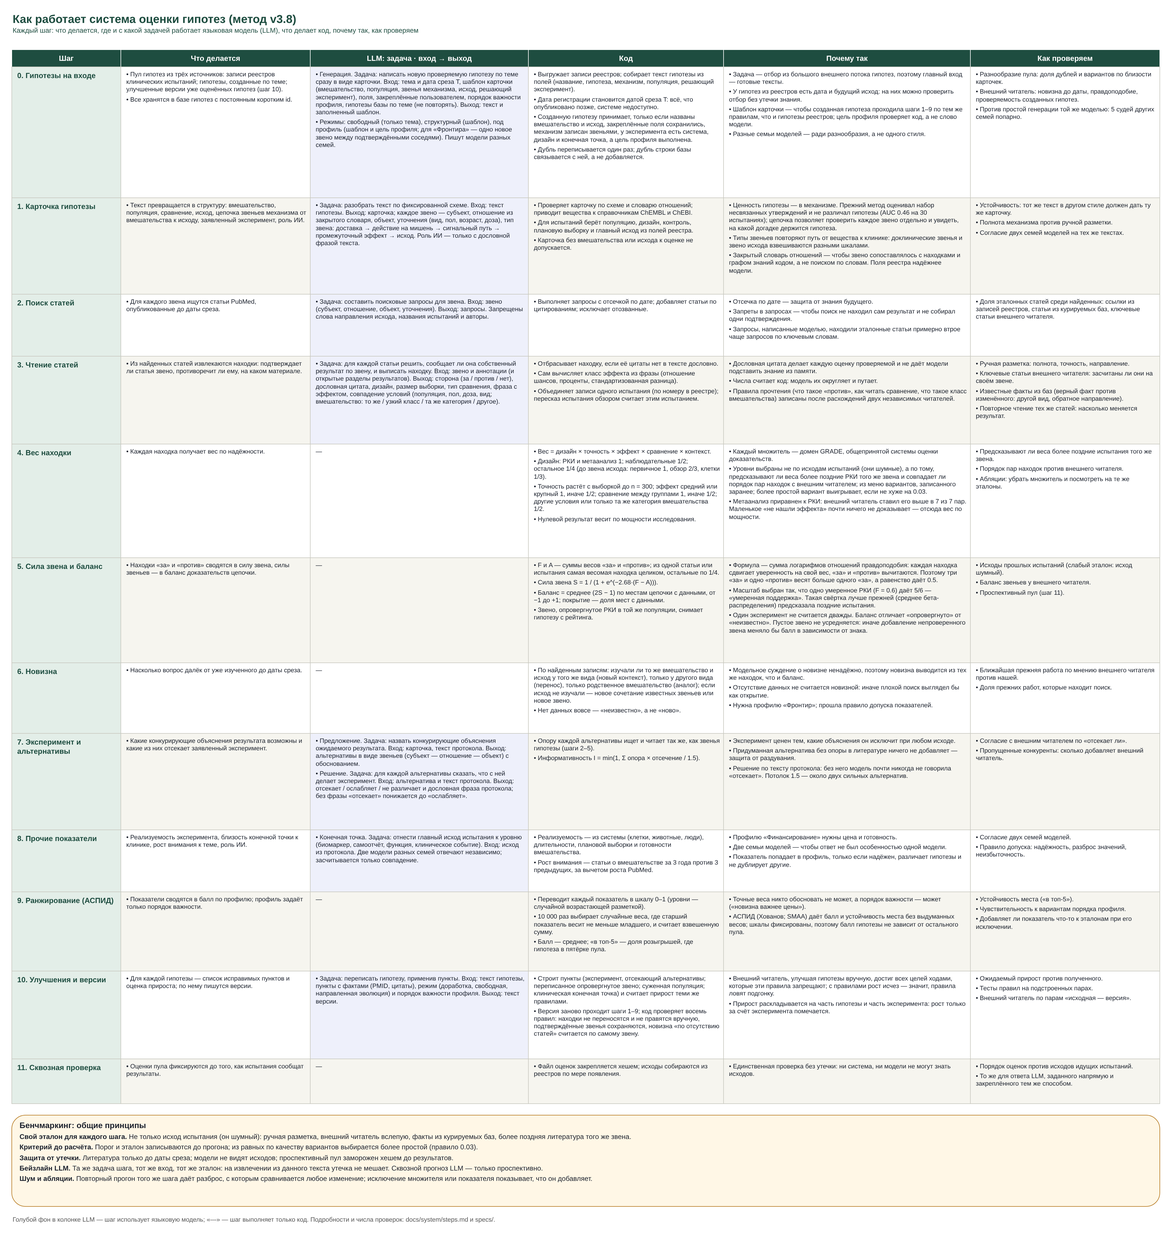
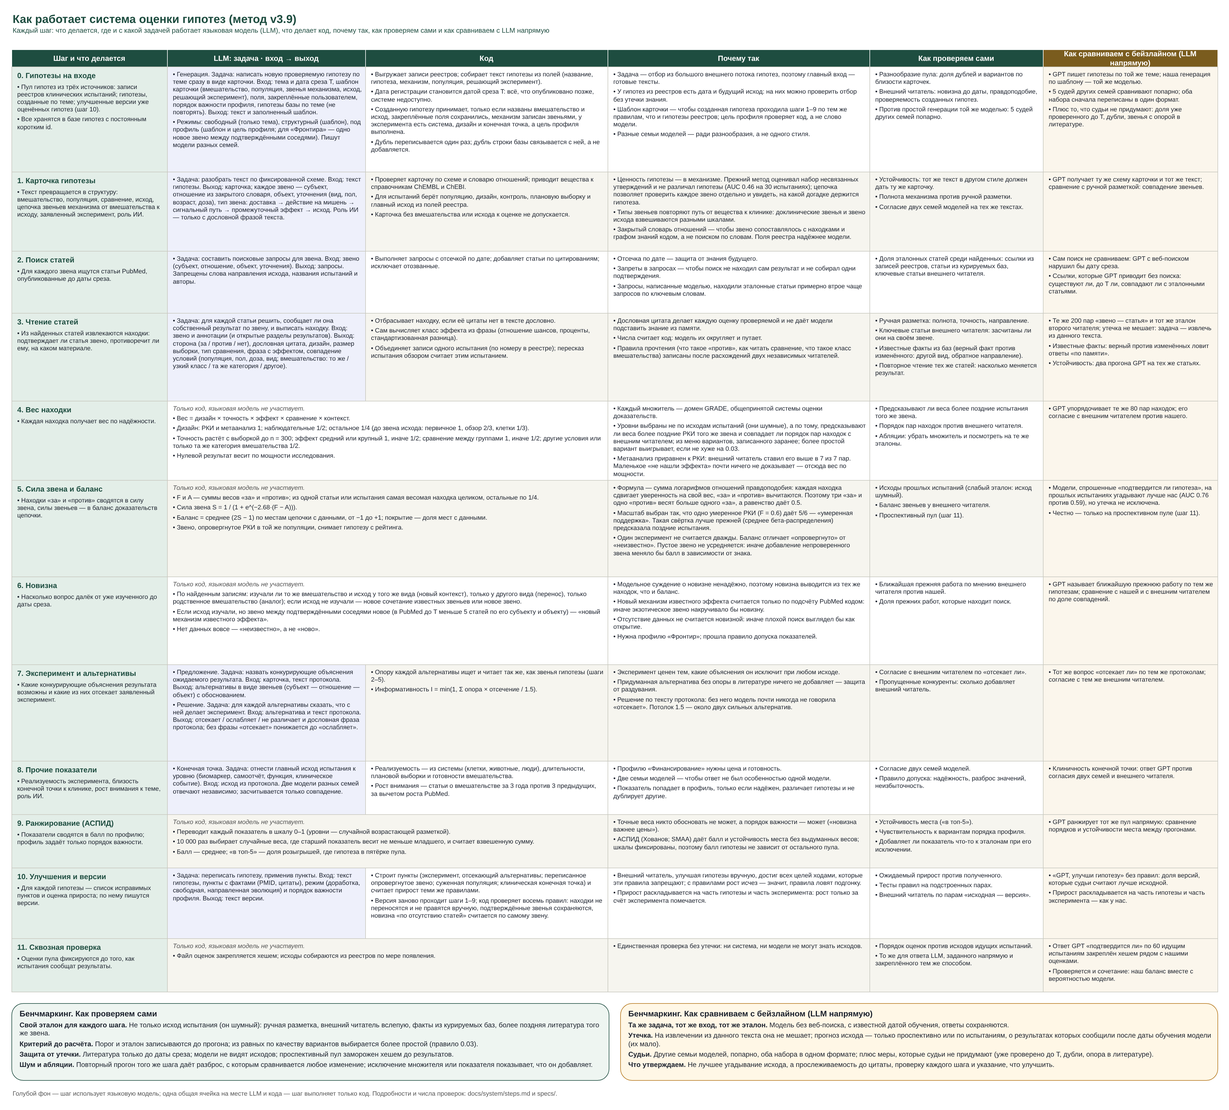
System scheme: step and what is done in one column; code-only steps get one merged cell; checks split into our own and against a plain-LLM baseline (per step and at the bottom); widths follow the amount of text; v3.9 novelty level in step 6
Claude-Session: https://claude.ai/code/session_015QaY8wcM8f6FoFe6WxnTtU

diff --git a/docs/system/build_scheme.py b/docs/system/build_scheme.py
@@ -1,13 +1,17 @@
-"""Builds docs/system/scheme.drawio: the whole system on one page (method v3.9). Each step: what is done, what a language model
-does (task, input -> output), what code does, why it is so, how it is checked; at the bottom the ideas of benchmarking.
-The text lives in STEPS and BENCH below; edit there and run:  python docs/system/build_scheme.py"""
+"""Builds docs/system/scheme.drawio: the whole system on one page (method v3.9). Each step: the step with what is done, what a
+language model does (task, input -> output; for code-only steps one merged cell with the code), what code does, why it is so,
+how we check it ourselves, and how it can be checked against a plain-LLM baseline; at the bottom benchmarking in two parts
+(our own checks; the baseline). Column widths follow the amount of text, so rows are even (user note 2026-11-11).
+The text lives in STEPS, BASELINE and BENCH below; edit there and run:  python docs/system/build_scheme.py"""
 from math import ceil
 from pathlib import Path
 from xml.sax.saxutils import escape
 
 D = Path(__file__).resolve().parent
-COLS = [("Шаг", 190), ("Что делается", 330), ("LLM: задача · вход → выход", 380), ("Код", 340), ("Почему так", 430),
-        ("Как проверяем", 330)]
+TOTAL = 2100
+HEAD = ["Шаг и что делается", "LLM: задача · вход → выход", "Код", "Почему так", "Как проверяем сами",
+        "Как сравниваем с бейзлайном (LLM напрямую)"]
+MIN_W = 230
 
 # step: (title, what[], llm[] (empty: no model), code[], why[], check[])
 STEPS = [
@@ -90,8 +94,10 @@ STEPS = [
      ["Насколько вопрос далёк от уже изученного до даты среза."],
      [],
      ["По найденным записям: изучали ли то же вмешательство и исход у того же вида (новый контекст), только у другого вида (перенос), только родственное вмешательство (аналог); если исход не изучали — новое сочетание известных звеньев или новое звено.",
+      "Если исход изучали, но звено между подтверждёнными соседями новое (в PubMed до T меньше 5 статей по его субъекту и объекту) — «новый механизм известного эффекта».",
       "Нет данных вовсе — «неизвестно», а не «ново»."],
      ["Модельное суждение о новизне ненадёжно, поэтому новизна выводится из тех же находок, что и баланс.",
+      "Новый механизм известного эффекта считается только по подсчёту PubMed кодом: иначе экзотическое звено накручивало бы новизну.",
       "Отсутствие данных не считается новизной: иначе плохой поиск выглядел бы как открытие.",
       "Нужна профилю «Фронтир»; прошла правило допуска показателей."],
      ["Ближайшая прежняя работа по мнению внешнего читателя против нашей.",
@@ -147,12 +153,40 @@ STEPS = [
       "То же для ответа LLM, заданного напрямую и закреплённого тем же способом."]),
 ]
 
-BENCH = ("Бенчмаркинг: общие принципы", [
+BASELINE = [
+    ["GPT пишет гипотезы по той же теме; наша генерация по шаблону — той же моделью.",
+     "5 судей других семей сравнивают попарно; оба набора сначала переписаны в один формат.",
+     "Плюс то, что судьи не придумают: доля уже проверенного до T, дубли, звенья с опорой в литературе."],
+    ["GPT получает ту же схему карточки и тот же текст; сравнение с ручной разметкой: совпадение звеньев."],
+    ["Сам поиск не сравниваем: GPT с веб-поиском нарушил бы дату среза.",
+     "Ссылки, которые GPT приводит без поиска: существуют ли, до T ли, совпадают ли с эталонными статьями."],
+    ["Те же 200 пар «звено — статья» и тот же эталон второго читателя; утечка не мешает: задача — извлечь из данного текста.",
+     "Известные факты: верный против изменённых ловит ответы «по памяти».",
+     "Устойчивость: два прогона GPT на тех же статьях."],
+    ["GPT упорядочивает те же 80 пар находок; его согласие с внешним читателем против нашего."],
+    ["Модели, спрошенные «подтвердится ли гипотеза», на прошлых испытаниях угадывают лучше нас (AUC 0.76 против 0.59), но утечка не исключена.",
+     "Честно — только на проспективном пуле (шаг 11)."],
+    ["GPT называет ближайшую прежнюю работу по тем же гипотезам; сравнение с нашей и с внешним читателем по доле совпадений."],
+    ["Тот же вопрос «отсекает ли» по тем же протоколам; согласие с тем же внешним читателем."],
+    ["Клиничность конечной точки: ответ GPT против согласия двух семей и внешнего читателя."],
+    ["GPT ранжирует тот же пул напрямую: сравнение порядков и устойчивости места между прогонами."],
+    ["«GPT, улучши гипотезу» без правил: доля версий, которые судьи считают лучше исходной.",
+     "Прирост раскладывается на часть гипотезы и часть эксперимента — как у нас."],
+    ["Ответ GPT «подтвердится ли» по 60 идущим испытаниям закреплён хешем рядом с нашими оценками.",
+     "Проверяется и сочетание: наш баланс вместе с вероятностью модели."],
+]
+
+BENCH_SELF = ("Как проверяем сами", [
     "<b>Свой эталон для каждого шага.</b> Не только исход испытания (он шумный): ручная разметка, внешний читатель вслепую, факты из курируемых баз, более поздняя литература того же звена.",
     "<b>Критерий до расчёта.</b> Порог и эталон записываются до прогона; из равных по качеству вариантов выбирается более простой (правило 0.03).",
     "<b>Защита от утечки.</b> Литература только до даты среза; модели не видят исходов; проспективный пул заморожен хешем до результатов.",
-    "<b>Бейзлайн LLM.</b> Та же задача шага, тот же вход, тот же эталон: на извлечении из данного текста утечка не мешает. Сквозной прогноз LLM — только проспективно.",
     "<b>Шум и абляции.</b> Повторный прогон того же шага даёт разброс, с которым сравнивается любое изменение; исключение множителя или показателя показывает, что он добавляет.",
+])
+BENCH_BASE = ("Как сравниваем с бейзлайном (LLM напрямую)", [
+    "<b>Та же задача, тот же вход, тот же эталон.</b> Модель без веб-поиска, с известной датой обучения, ответы сохраняются.",
+    "<b>Утечка.</b> На извлечении из данного текста она не мешает; прогноз исхода — только проспективно или по испытаниям, о результатах которых сообщили после даты обучения модели (их мало).",
+    "<b>Судьи.</b> Другие семьи моделей, попарно, оба набора в одном формате; плюс меры, которые судьи не придумают (уже проверено до T, дубли, опора в литературе).",
+    "<b>Что утверждаем.</b> Не лучшее угадывание исхода, а прослеживаемость до цитаты, проверку каждого шага и указание, что улучшить.",
 ])
 
 FONT = 11
@@ -160,7 +194,7 @@ LINE = 15
 
 
 def lines(text: str, width: int) -> int:
-    per = max(10, int((width - 16) / (FONT * 0.56)))
+    per = max(10, int((width - 16) / (FONT * 0.5)))
     return max(1, ceil(len(text) / per))
 
 
@@ -176,47 +210,71 @@ def cell(cid, value, x, y, w, h, style):
     return f'<mxCell id="{cid}" value="{v}" style="{style}" vertex="1" parent="1"><mxGeometry x="{x}" y="{y}" width="{w}" height="{h}" as="geometry"/></mxCell>'
 
 
+def _widths() -> list[int]:
+    """Widths in proportion to the square root of each column's text, at least MIN_W, summing to TOTAL."""
+    cols = [[t for st in STEPS for t in [st[0]] + st[1]],
+            [t for st in STEPS for t in st[2]], [t for st in STEPS for t in st[3]], [t for st in STEPS for t in st[4]],
+            [t for st in STEPS for t in st[5]], [t for b in BASELINE for t in b]]
+    v = [max(1, sum(len(t) for t in c)) ** 0.5 for c in cols]
+    w = [max(MIN_W, int(TOTAL * x / sum(v))) for x in v]
+    w[-1] += TOTAL - sum(w)
+    return w
+
+
 def build() -> str:
+    assert len(BASELINE) == len(STEPS)
     out, X0, y = [], 20, 20
-    total = sum(w for _, w in COLS)
-    out.append(cell("title", "<b>Как работает система оценки гипотез (метод v3.9)</b><br/><span style='font-size:12px'>Каждый шаг: что делается, где и с какой задачей работает языковая модель (LLM), что делает код, почему так, как проверяем</span>",
+    W = _widths()
+    total = sum(W)
+    out.append(cell("title", "<b>Как работает система оценки гипотез (метод v3.9)</b><br/><span style='font-size:12px'>Каждый шаг: что делается, где и с какой задачей работает языковая модель (LLM), что делает код, почему так, как проверяем сами и как сравниваем с LLM напрямую</span>",
                     X0, y, total, 54, "text;html=1;fontSize=20;align=left;verticalAlign=top;fillColor=none;strokeColor=none;fontColor=#1E4D40;"))
     y += 66
     x = X0
-    for k, (name, w) in enumerate(COLS):
-        out.append(cell(f"h{k}", f"<b>{name}</b>", x, y, w, 30, "rounded=0;html=1;fillColor=#1E4D40;fontColor=#FFFFFF;strokeColor=#FFFFFF;fontSize=13;"))
-        x += w
+    for k, name in enumerate(HEAD):
+        fill = "#7A5C1E" if k == 5 else "#1E4D40"
+        out.append(cell(f"h{k}", f"<b>{name}</b>", x, y, W[k], 30, f"rounded=0;whiteSpace=wrap;html=1;fillColor={fill};fontColor=#FFFFFF;strokeColor=#FFFFFF;fontSize=13;"))
+        x += W[k]
     y += 30
     fills = ["#FFFFFF", "#F6F5EF"]
-    for i, (title, what, llm, code, why, check) in enumerate(STEPS):
-        blocks = [block(b, w) for b, (_, w) in zip([what, llm, code, why, check], COLS[1:])]
-        h = max(70, max(n for _, n in blocks) * LINE + 18)
+    style = "rounded=0;whiteSpace=wrap;html=1;fillColor={f};strokeColor=#C9C9C0;fontSize=%d;fontColor=#1A202C;align=left;verticalAlign=top;spacingLeft=8;spacingRight=6;spacingTop=6;" % FONT
+    for i, ((title, what, llm, code, why, check), base) in enumerate(zip(STEPS, BASELINE)):
+        f = fills[i % 2]
+        first = f"<div style='font-size:13px;color:#1E4D40;margin-bottom:6px'><b>{escape(title)}</b></div>" + block(what, W[0])[0]
+        n_first = 2 + block(what, W[0])[1]
+        if llm:
+            cells = [(first, W[0], "#E3EEE8"), (block(llm, W[1])[0], W[1], "#EEF0FB"), (block(code, W[2])[0], W[2], f)]
+            ns = [n_first, block(llm, W[1])[1], block(code, W[2])[1]]
+        else:
+            merged = "<div style='color:#555555;margin-bottom:4px'><i>Только код, языковая модель не участвует.</i></div>" + block(code, W[1] + W[2])[0]
+            cells = [(first, W[0], "#E3EEE8"), (merged, W[1] + W[2], f)]
+            ns = [n_first, 1 + block(code, W[1] + W[2])[1]]
+        for b, w, fl in ((why, W[3], f), (check, W[4], f), (base, W[5], "#FBF6EC")):
+            html, n = block(b, w)
+            cells.append((html, w, fl))
+            ns.append(n)
+        h = max(70, max(ns) * LINE + 18)
         x = X0
-        out.append(cell(f"s{i}", f"<b>{escape(title)}</b>", x, y, COLS[0][1], h,
-                        f"rounded=0;whiteSpace=wrap;html=1;fillColor=#E3EEE8;strokeColor=#C9C9C0;fontSize=13;fontColor=#1E4D40;align=left;verticalAlign=top;spacingLeft=8;spacingTop=6;"))
-        x += COLS[0][1]
-        for k, (html, _) in enumerate(blocks):
-            w = COLS[k + 1][1]
-            fill = ("#EEF0FB" if llm else fills[i % 2]) if k == 1 else fills[i % 2]
-            out.append(cell(f"c{i}_{k}", html, x, y, w, h,
-                            f"rounded=0;whiteSpace=wrap;html=1;fillColor={fill};strokeColor=#C9C9C0;fontSize={FONT};fontColor=#1A202C;align=left;verticalAlign=top;spacingLeft=8;spacingRight=6;spacingTop=6;"))
+        for k, (html, w, fl) in enumerate(cells):
+            out.append(cell(f"c{i}_{k}", html, x, y, w, h, style.format(f=fl)))
             x += w
         y += h
     y += 20
-    bt, items = BENCH
-    html = f"<b style='font-size:14px'>{bt}</b><br/>" + "".join(f"<div style='margin-top:4px'>{t}</div>" for t in items)
-    bh = 34 + sum(lines(t, total) for t in items) * LINE + 10 * len(items)
-    out.append(cell("bench", html, X0, y, total, bh,
-                    "rounded=1;whiteSpace=wrap;html=1;fillColor=#FFF7E6;strokeColor=#B7791F;fontColor=#1A202C;fontSize=12;align=left;verticalAlign=top;spacingLeft=12;spacingTop=8;"))
+    half = (total - 20) // 2
+    bh = 0
+    for (bt, items), w in ((BENCH_SELF, half), (BENCH_BASE, half)):
+        bh = max(bh, 34 + sum(lines(t, w) for t in items) * LINE + 10 * len(items))
+    for k, ((bt, items), stroke, fill) in enumerate(((BENCH_SELF, "#1E4D40", "#EEF5F1"), (BENCH_BASE, "#B7791F", "#FFF7E6"))):
+        html = f"<b style='font-size:14px'>Бенчмаркинг. {bt}</b><br/>" + "".join(f"<div style='margin-top:4px'>{t}</div>" for t in items)
+        out.append(cell(f"bench{k}", html, X0 + k * (half + 20), y, half, bh,
+                        f"rounded=1;whiteSpace=wrap;html=1;fillColor={fill};strokeColor={stroke};fontColor=#1A202C;fontSize=12;align=left;verticalAlign=top;spacingLeft=12;spacingTop=8;"))
     y += bh + 12
-    out.append(cell("legend", "Голубой фон в колонке LLM — шаг использует языковую модель; «—» — шаг выполняет только код. Подробности и числа проверок: docs/system/steps.md и specs/.",
+    out.append(cell("legend", "Голубой фон — шаг использует языковую модель; одна общая ячейка на месте LLM и кода — шаг выполняет только код. Подробности и числа проверок: docs/system/steps.md и specs/.",
                     X0, y, total, 24, "text;html=1;fontSize=11;align=left;fontColor=#555555;fillColor=none;strokeColor=none;"))
     page_h = y + 40
     body = "".join(out)
     return (f'<mxfile host="hyp-arena"><diagram name="Схема системы"><mxGraphModel dx="{total + 40}" dy="{page_h}" grid="0" '
             f'page="1" pageWidth="{total + 40}" pageHeight="{page_h}"><root><mxCell id="0"/><mxCell id="1" parent="0"/>{body}'
             f'</root></mxGraphModel></diagram></mxfile>')
-
 
 if __name__ == "__main__":
     (D / "scheme.drawio").write_text(build(), encoding="utf-8")

diff --git a/docs/system/steps.md b/docs/system/steps.md
@@ -1,7 +1,7 @@
 # Схема системы: шаги, обоснования и проверки
 
 Метод v3.9, состояние на 2026-11-11. Для коллег: что делает каждый шаг, почему он устроен именно так и чем это подтверждено.
-Вся система на одной схеме — [`scheme.drawio`](scheme.drawio) (картинка: [`scheme.png`](scheme.png)): по каждому шагу что делается, задача LLM, работа кода, почему так и как проверяем; внизу принципы бенчмаркинга. Здесь — то же с числами проверок. Числа и критерии
+Вся система на одной схеме — [`scheme.drawio`](scheme.drawio) (картинка: [`scheme.png`](scheme.png)): по каждому шагу что делается, задача LLM (у шагов только кода — одна ячейка с кодом), работа кода, почему так, как проверяем сами и как сравниваем с LLM напрямую; внизу бенчмаркинг в двух частях: свои проверки и бейзлайн. Здесь — то же с числами проверок. Числа и критерии
 каждой проверки лежат в `specs/` (файл указан у проверки); критерий записан до расчёта.
 
 **Что система утверждает.** Каждая оценка прослеживается до статьи и дословной цитаты; каждый шаг проверен отдельно на своём
